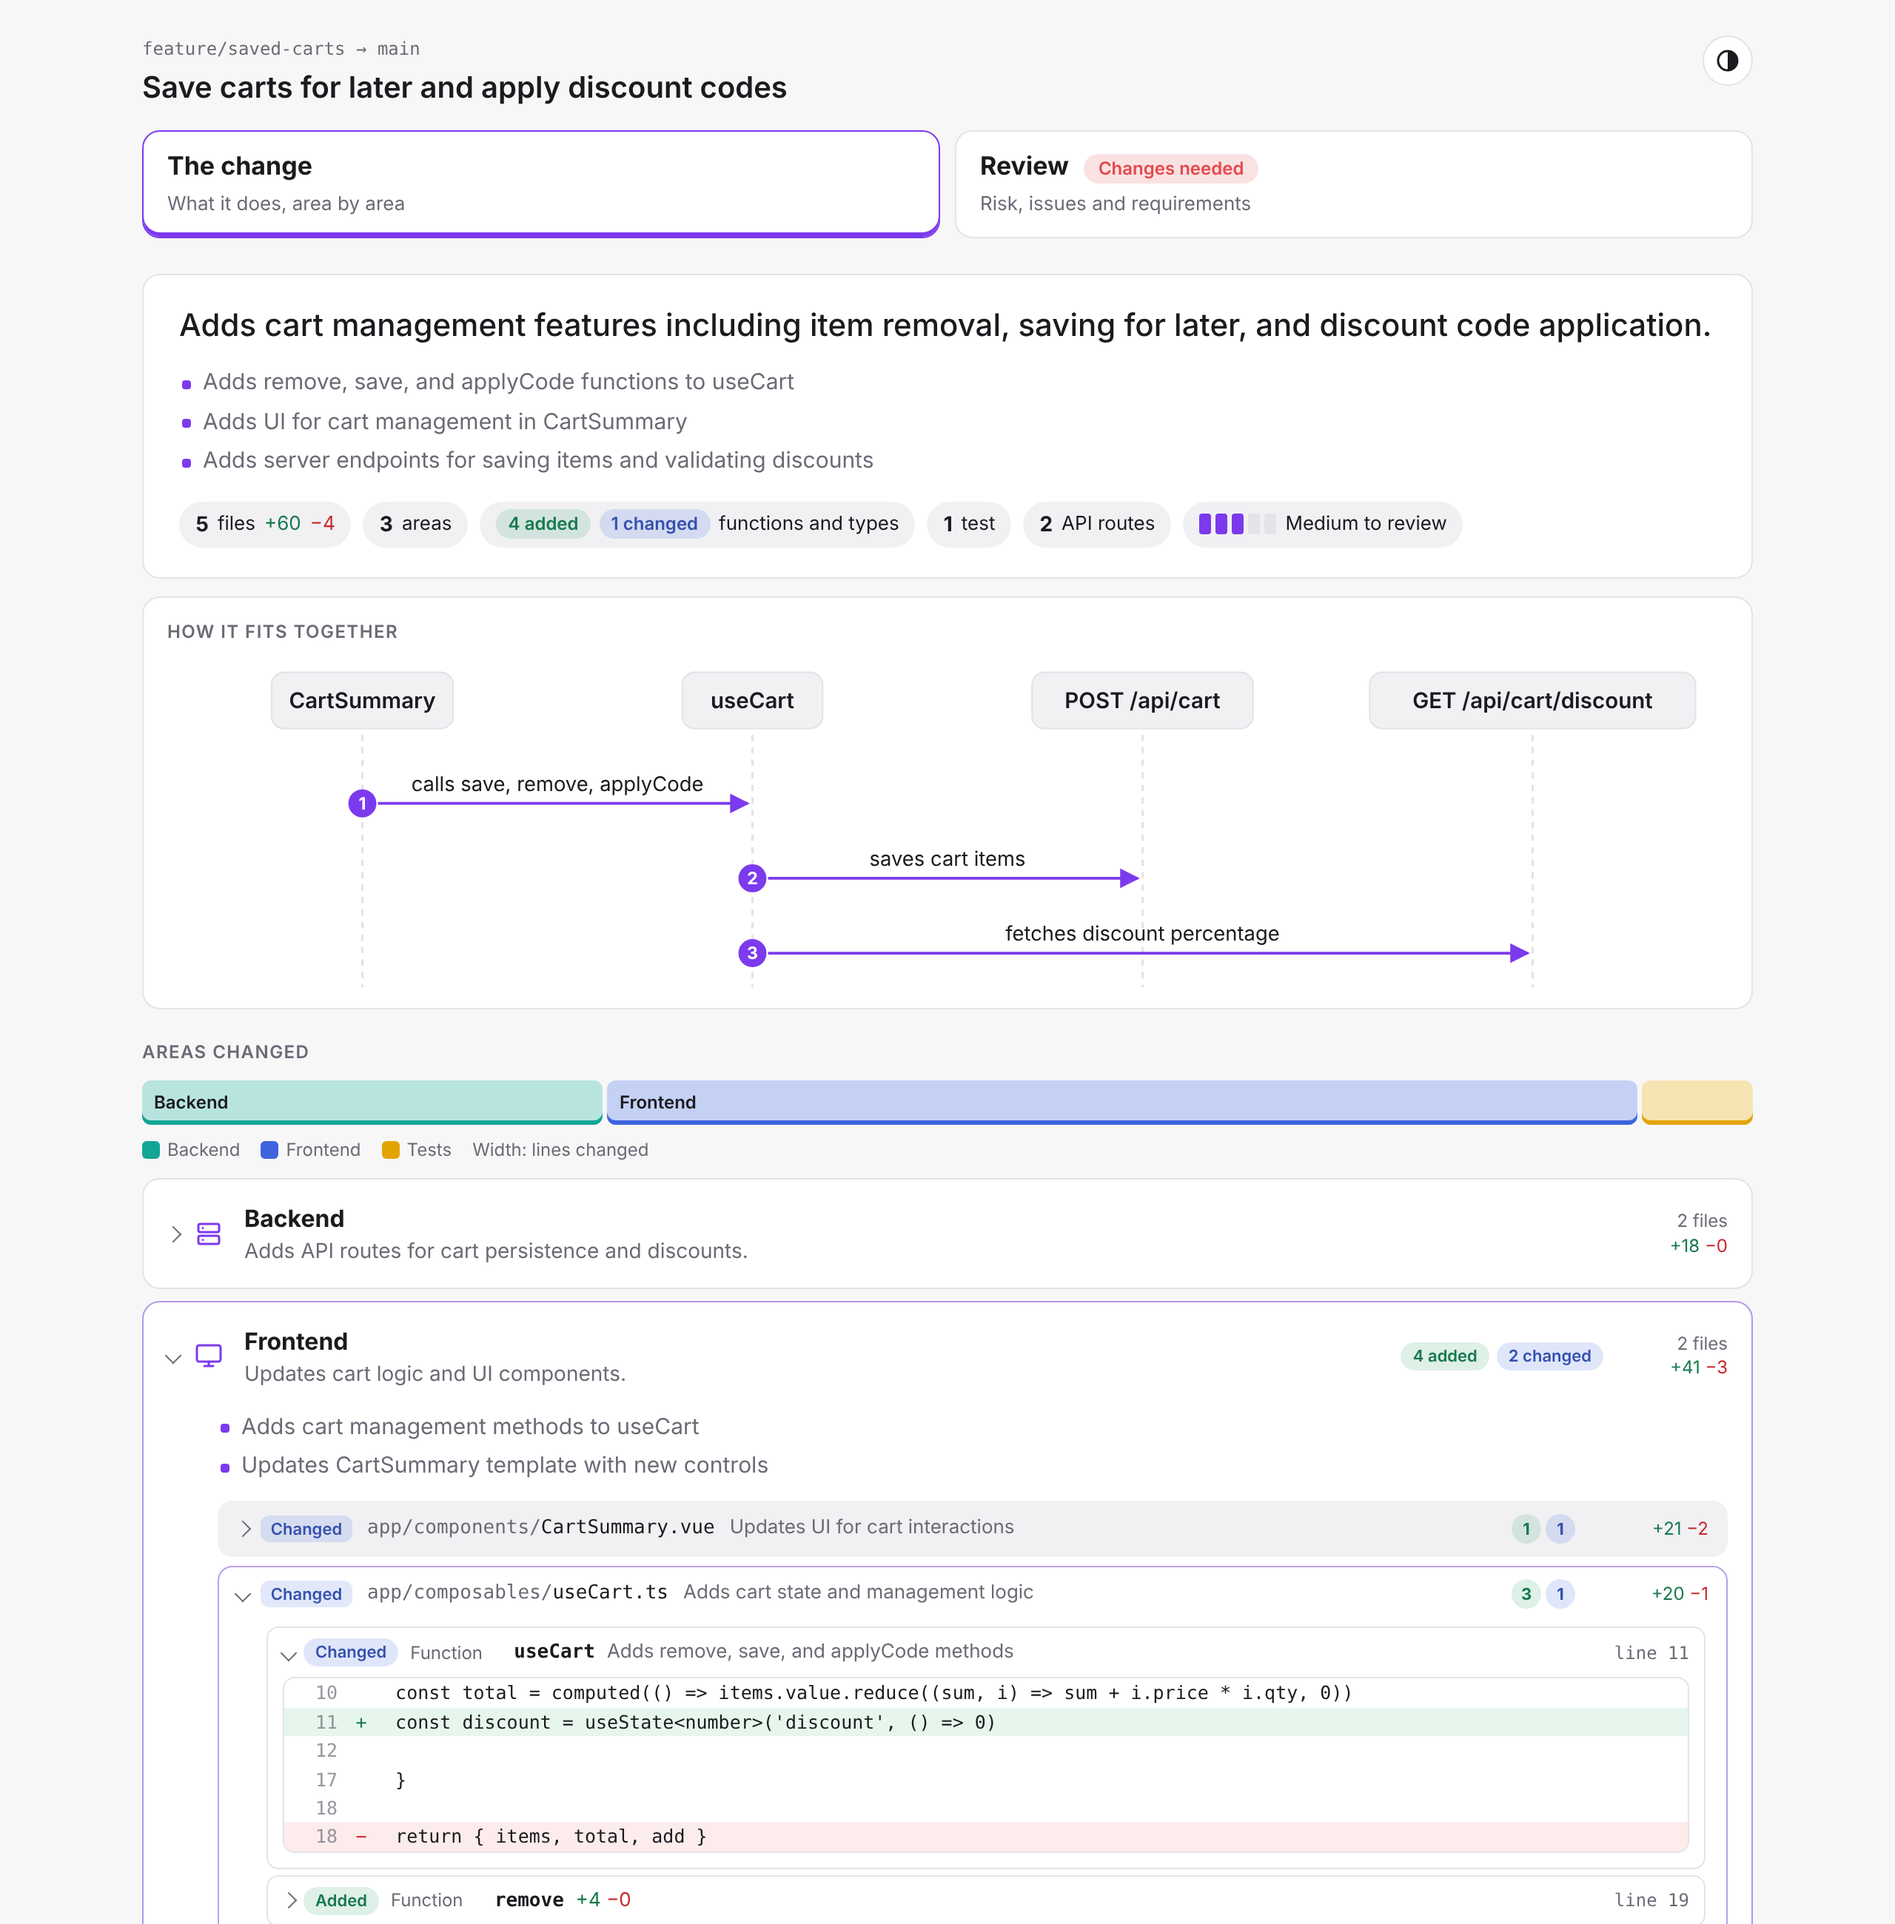
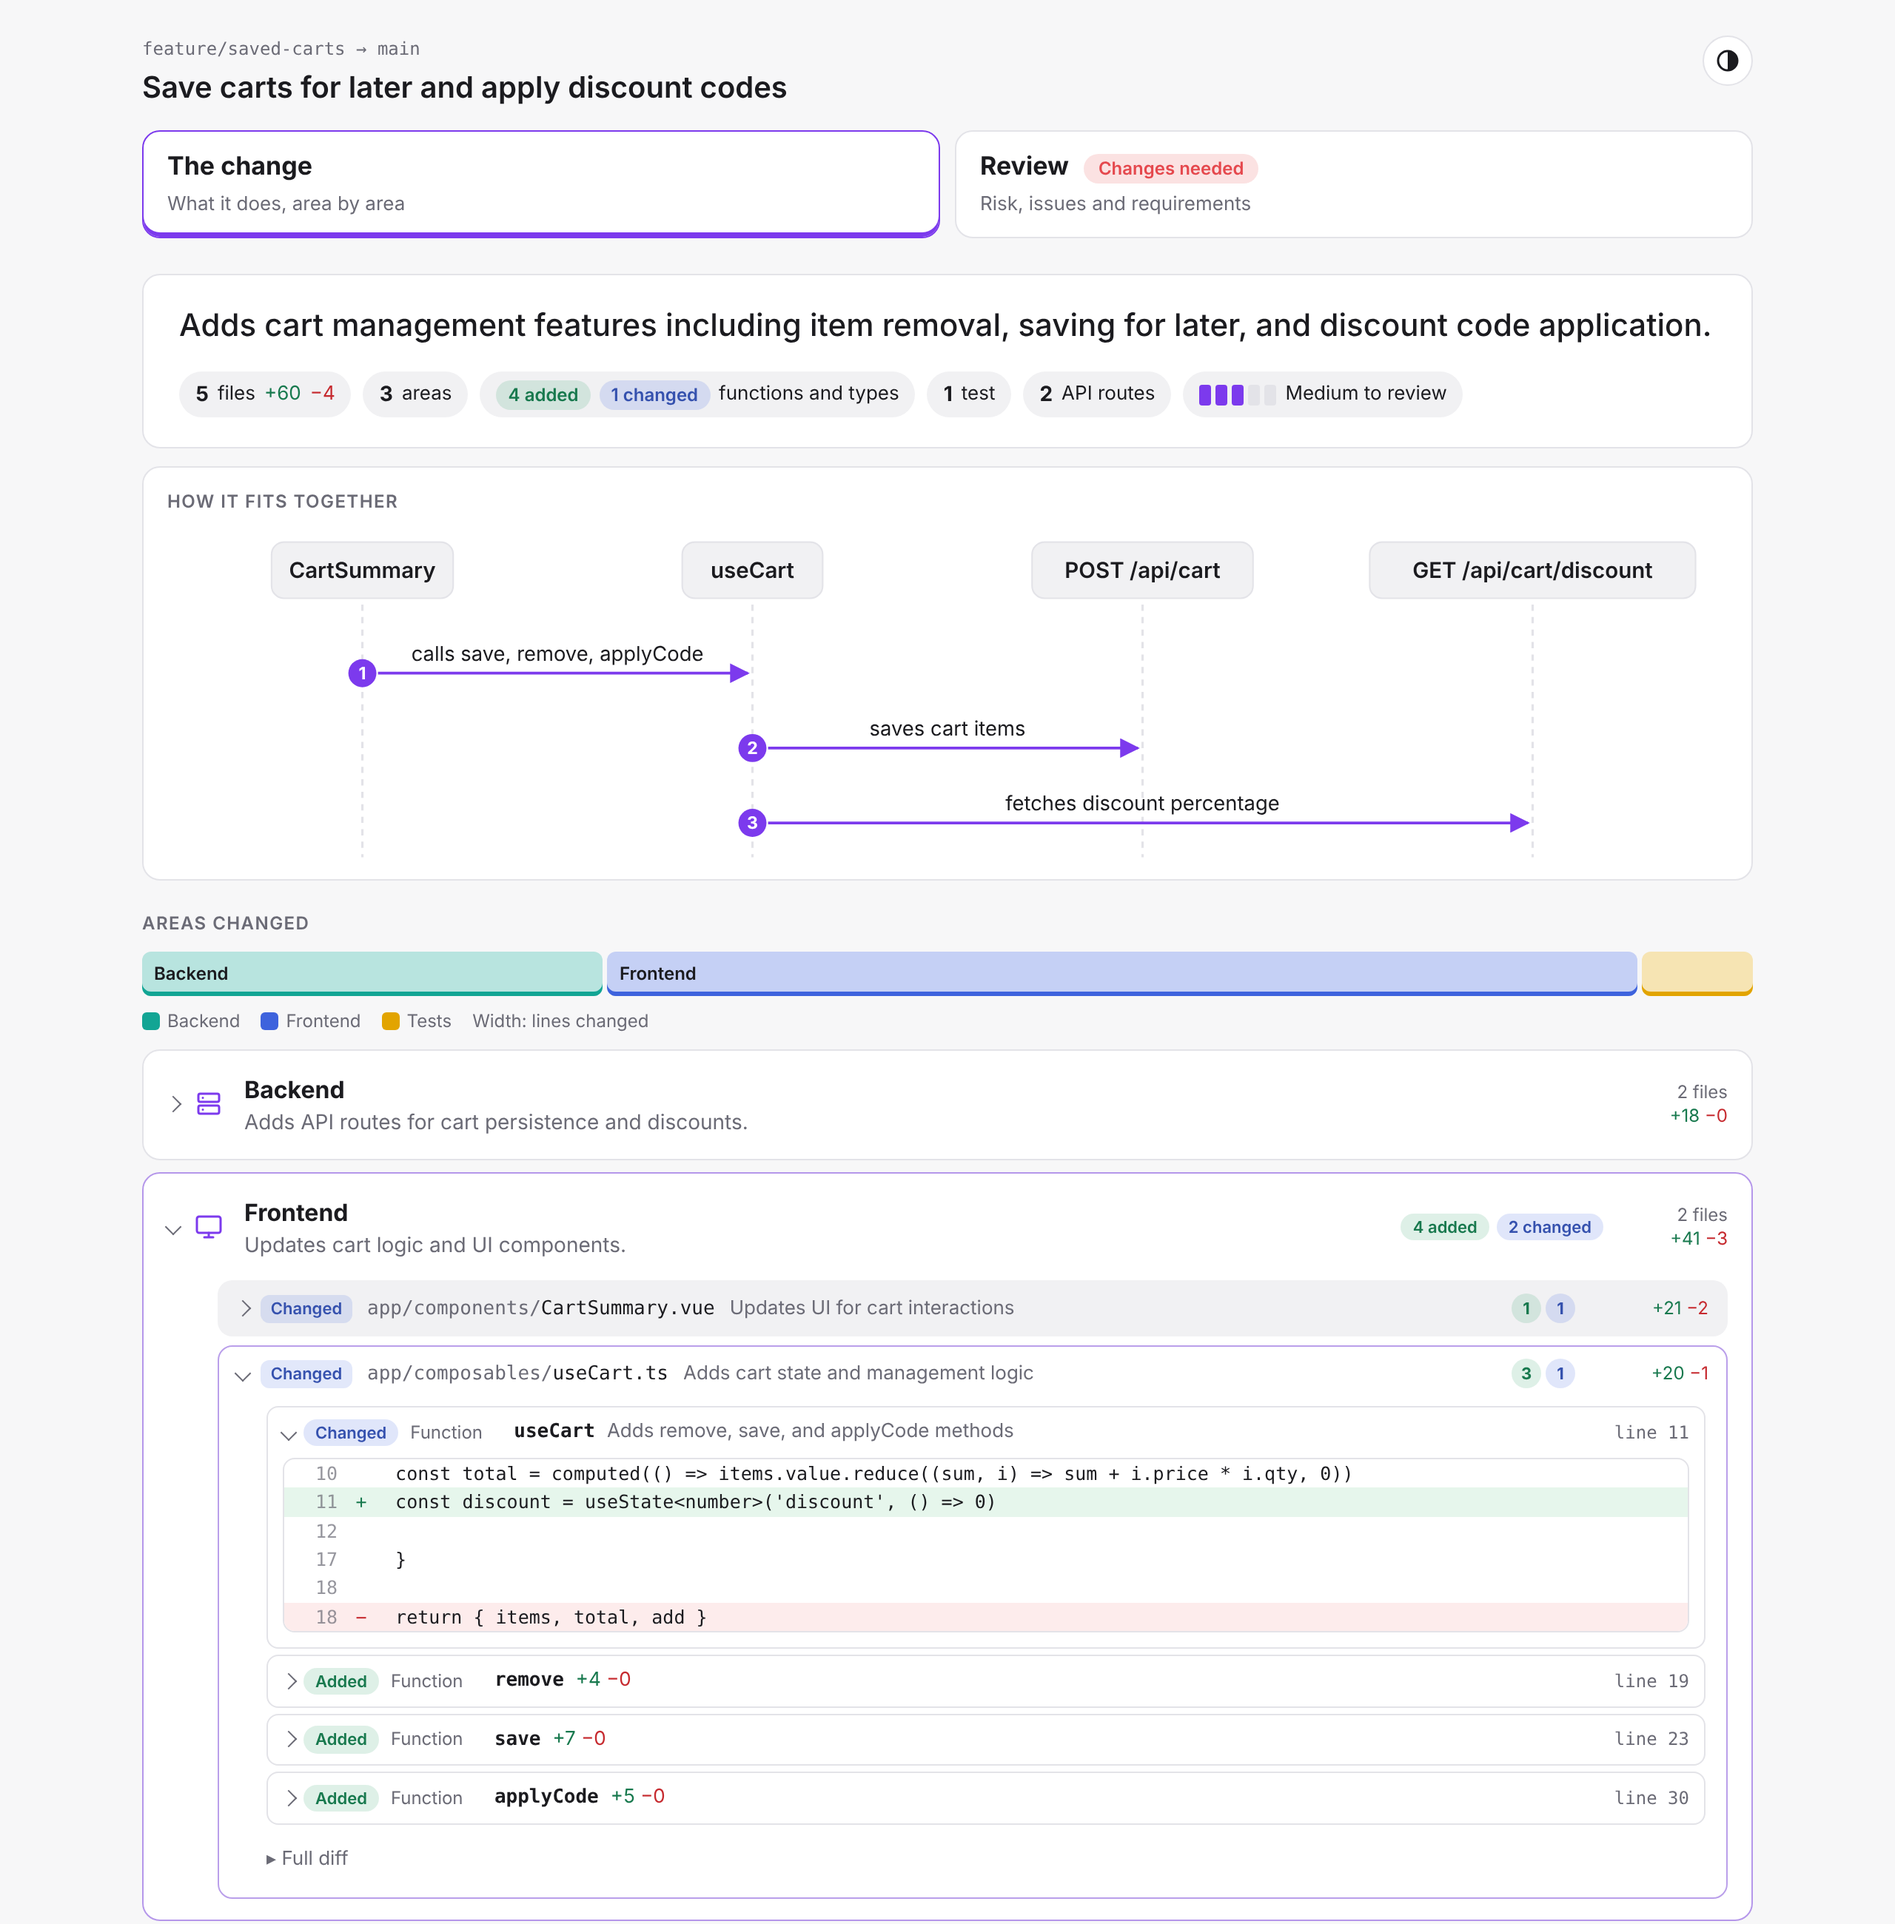
Drop bullet lists from the report; the summary sentence and counts carry it

diff --git a/examples/webcontainers-tui.html b/examples/webcontainers-tui.html
@@ -350,7 +350,6 @@ footer{margin-top:32px;color:var(--muted);font-size:12px;text-align:center}
     <div class="part" data-part="part-change">
     <section class="hero">
       <p class="c-sum">Replaces the Ink-based TUI with a custom, dependency-free terminal UI that manages service lifecycles directly.</p>
-      <ul class="keys"><li>Removes Ink and React dependencies from the TUI.</li><li>Adds a ServiceManager to start and stop worker and dashboard processes.</li><li>Implements a custom ANSI-based rendering engine for terminal output.</li><li>Updates the TUI to manage service lifecycles and display logs.</li></ul>
       <div class="facts"><span class="chip-f"><b>9</b> files <span class="plus">+683</span> <span class="minus">−1430</span></span><span class="chip-f"><b>3</b> areas</span><span class="chip-f"><span class="act act-added">39 added</span><span class="act act-changed">2 changed</span><span class="act act-removed">11 removed</span> functions and types</span><span class="chip-f"><b>3</b> tests</span><span class="chip-f"><b>6</b> dependencies</span><span class="chip-f"><b>1</b> env var</span><span class="chip-f"><span class="pips" title="Review effort 5 of 5"><i class="on"></i><i class="on"></i><i class="on"></i><i class="on"></i><i class="on"></i></span><span>Very long to review</span></span></div>
     </section>
     <div class="panel flow-panel"><h3>How it fits together</h3><div class="flow-wrap"><svg class="flow" viewBox="0 0 1000 256" role="img" aria-label="How the parts of the change call each other">
@@ -371,7 +370,6 @@ footer{margin-top:32px;color:var(--muted);font-size:12px;text-align:center}
         <span class="m-size">6 files<br><span class="plus">+572</span> <span class="minus">−245</span></span>
       </summary>
       <div class="m-body">
-        <ul class="keys"><li>Removes all React and Ink dependencies.</li><li>Adds ServiceManager for process lifecycle control.</li><li>Adds custom screen rendering and ANSI utilities.</li></ul>
         <div class="list"><details class="cfile" id="cfile-apps-tui-src-services-js" data-path="apps/tui/src/services.js">
     <summary>
       <span class="st-badge st-added">Added</span>
@@ -625,7 +623,6 @@ footer{margin-top:32px;color:var(--muted);font-size:12px;text-align:center}
         <span class="m-size">2 files<br><span class="plus">+87</span> <span class="minus">−1174</span></span>
       </summary>
       <div class="m-body">
-        <ul class="keys"><li>Adds WebAssembly-based build tool resolutions.</li><li>Removes Ink and React from dependencies.</li><li>Adds start script for the TUI.</li></ul>
         <div class="list"><details class="cfile" id="cfile-package-json" data-path="package.json">
     <summary>
       <span class="st-badge st-changed">Changed</span>
@@ -662,7 +659,6 @@ footer{margin-top:32px;color:var(--muted);font-size:12px;text-align:center}
         <span class="m-size">1 file<br><span class="plus">+24</span> <span class="minus">−11</span></span>
       </summary>
       <div class="m-body">
-        
         <div class="list"><details class="cfile" id="cfile-README-md" data-path="README.md">
     <summary>
       <span class="st-badge st-changed">Changed</span>
@@ -711,7 +707,6 @@ footer{margin-top:32px;color:var(--muted);font-size:12px;text-align:center}
     <div class="v-text">
       <span class="pill">Looks good</span>
       <p class="headline">The TUI is now dependency-free and manages service lifecycles, which is ready for review.</p>
-      <ul class="keys"><li>Custom rendering logic replaces Ink, reducing complexity and improving compatibility.</li><li>Service management adds process control, which requires careful cleanup.</li><li>The new architecture is robust for WebContainer environments.</li></ul>
     </div>
   </section>
 

diff --git a/examples/saved-carts.html b/examples/saved-carts.html
@@ -350,7 +350,6 @@ footer{margin-top:32px;color:var(--muted);font-size:12px;text-align:center}
     <div class="part" data-part="part-change">
     <section class="hero">
       <p class="c-sum">Adds cart management features including item removal, saving for later, and discount code application.</p>
-      <ul class="keys"><li>Adds remove, save, and applyCode functions to useCart</li><li>Adds UI for cart management in CartSummary</li><li>Adds server endpoints for saving items and validating discounts</li></ul>
       <div class="facts"><span class="chip-f"><b>5</b> files <span class="plus">+60</span> <span class="minus">−4</span></span><span class="chip-f"><b>3</b> areas</span><span class="chip-f"><span class="act act-added">4 added</span><span class="act act-changed">1 changed</span> functions and types</span><span class="chip-f"><b>1</b> test</span><span class="chip-f"><b>2</b> API routes</span><span class="chip-f"><span class="pips" title="Review effort 3 of 5"><i class="on"></i><i class="on"></i><i class="on"></i><i class=""></i><i class=""></i></span><span>Medium to review</span></span></div>
     </section>
     <div class="panel flow-panel"><h3>How it fits together</h3><div class="flow-wrap"><svg class="flow" viewBox="0 0 1000 208" role="img" aria-label="How the parts of the change call each other">
@@ -370,7 +369,6 @@ footer{margin-top:32px;color:var(--muted);font-size:12px;text-align:center}
         <span class="m-size">2 files<br><span class="plus">+18</span> <span class="minus">−0</span></span>
       </summary>
       <div class="m-body">
-        <ul class="keys"><li>Adds POST /api/cart for saving items</li><li>Adds GET /api/cart/discount for code validation</li></ul>
         <div class="list"><details class="cfile" id="cfile-server-api-cart-discount-get-ts" data-path="server/api/cart/discount.get.ts">
     <summary>
       <span class="st-badge st-added">Added</span>
@@ -407,7 +405,6 @@ footer{margin-top:32px;color:var(--muted);font-size:12px;text-align:center}
         <span class="m-size">2 files<br><span class="plus">+41</span> <span class="minus">−3</span></span>
       </summary>
       <div class="m-body">
-        <ul class="keys"><li>Adds cart management methods to useCart</li><li>Updates CartSummary template with new controls</li></ul>
         <div class="list"><details class="cfile" id="cfile-app-components-CartSummary-vue" data-path="app/components/CartSummary.vue">
     <summary>
       <span class="st-badge st-changed">Changed</span>
@@ -462,7 +459,6 @@ footer{margin-top:32px;color:var(--muted);font-size:12px;text-align:center}
         <span class="m-size">1 file<br><span class="plus">+1</span> <span class="minus">−1</span></span>
       </summary>
       <div class="m-body">
-        <ul class="keys"><li>Changes test to focused mode</li></ul>
         <div class="list"><details class="cfile" id="cfile-test-cart-test-ts" data-path="test/cart.test.ts">
     <summary>
       <span class="st-badge st-changed">Changed</span>
@@ -508,7 +504,6 @@ footer{margin-top:32px;color:var(--muted);font-size:12px;text-align:center}
     <div class="v-text">
       <span class="pill">Changes needed</span>
       <p class="headline">The change contains critical security vulnerabilities and broken test configuration.</p>
-      <ul class="keys"><li>SQL injection vulnerability in discount endpoint.</li><li>Unvalidated request body in cart save endpoint.</li><li>Focused test prevents CI from running full suite.</li></ul>
     </div>
   </section>
 

diff --git a/src/report/html.ts b/src/report/html.ts
@@ -313,7 +313,6 @@ function changeAreas(review: Review, diffByPath: Map<string, DiffFile>): string 
         <span class="m-size">${plural(files.length, 'file')}<br><span class="plus">+${m.additions}</span> <span class="minus">−${m.deletions}</span></span>
       </summary>
       <div class="m-body">
-        ${m.points?.length ? `<ul class="keys">${m.points.map(p => `<li>${esc(p)}</li>`).join('')}</ul>` : ''}
         <div class="list">${files.map(f => changeFile(f, diffByPath.get(f.path), m.root)).join('')}</div>
       </div>
     </details>`
@@ -396,7 +395,6 @@ function changePart(review: Review, diffByPath: Map<string, DiffFile>, add: numb
   })
   return `<section class="hero">
       <p class="c-sum">${esc(c.summary)}</p>
-      ${c.points.length ? `<ul class="keys">${c.points.map(p => `<li>${esc(p)}</li>`).join('')}</ul>` : ''}
       <div class="facts">${chips}</div>
     </section>
     ${c.flow?.length ? `<div class="panel flow-panel"><h3>How it fits together</h3>${flowDiagram(c.flow)}</div>` : ''}
@@ -516,7 +514,6 @@ export function renderHtml(review: Review, opts: RenderOptions = {}): string {
     <div class="v-text">
       <span class="pill">${v.label}</span>
       <p class="headline">${esc(review.headline)}</p>
-      ${review.summary.length ? `<ul class="keys">${review.summary.map(s => `<li>${esc(s)}</li>`).join('')}</ul>` : ''}
     </div>
   </section>
 

diff --git a/dist/report/html.js b/dist/report/html.js
@@ -294,7 +294,6 @@ function changeAreas(review, diffByPath) {
         <span class="m-size">${plural(files.length, 'file')}<br><span class="plus">+${m.additions}</span> <span class="minus">−${m.deletions}</span></span>
       </summary>
       <div class="m-body">
-        ${m.points?.length ? `<ul class="keys">${m.points.map(p => `<li>${esc(p)}</li>`).join('')}</ul>` : ''}
         <div class="list">${files.map(f => changeFile(f, diffByPath.get(f.path), m.root)).join('')}</div>
       </div>
     </details>`;
@@ -378,7 +377,6 @@ function changePart(review, diffByPath, add, del) {
     });
     return `<section class="hero">
       <p class="c-sum">${esc(c.summary)}</p>
-      ${c.points.length ? `<ul class="keys">${c.points.map(p => `<li>${esc(p)}</li>`).join('')}</ul>` : ''}
       <div class="facts">${chips}</div>
     </section>
     ${c.flow?.length ? `<div class="panel flow-panel"><h3>How it fits together</h3>${flowDiagram(c.flow)}</div>` : ''}
@@ -488,7 +486,6 @@ export function renderHtml(review, opts = {}) {
     <div class="v-text">
       <span class="pill">${v.label}</span>
       <p class="headline">${esc(review.headline)}</p>
-      ${review.summary.length ? `<ul class="keys">${review.summary.map(s => `<li>${esc(s)}</li>`).join('')}</ul>` : ''}
     </div>
   </section>
 

diff --git a/README.md b/README.md
@@ -6,7 +6,7 @@ AI code review that writes a visual HTML report. The report has two parts, and e
 
 **The change** describes what the change does, without judgement.
 
-- **Summary first.** What the change does in one sentence, the main points, and counts: files, areas, functions added, changed and removed, API routes, dependencies, environment variables, and how long it will take to review.
+- **Summary first.** What the change does in one sentence, then counts: files, areas, functions added, changed and removed, API routes, dependencies, environment variables, and how long it will take to review.
 - **How it fits together.** A diagram of the main path through the change, from the UI to the API, for example.
 - **Areas changed.** One short section per module: each workspace in a monorepo (portal, api, ui...) or each layer (frontend, backend, shared, tests, config). Each opens to its files, each file to the functions, components and templates it changes, and each of those to its lines.
 - **Outside the code.** API routes, pages, dependencies, environment variables, config keys and migrations that were added, changed or removed.
